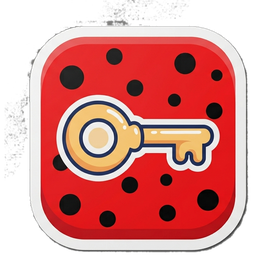
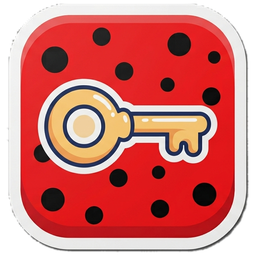
v0.1.28.34 — croix de fermeture, chiffres AZERTY, icône classeur
- Bouton Quitter : la maison devient une croix blanche (7 applis) —
  « fermer », le geste universel, plus parlant pour les enfants
  (retour du premier test d'Isabella)
- La chasse : les chiffres s'attrapent par la POSITION de la touche
  (rangée du haut + pavé numérique) — sur AZERTY physique, la rangée
  des chiffres envoyait & é " ' ( … et aucun chiffre n'était attrapable
- Icône « Mon classeur » (bulle de parole, livrée coccinelle) ;
  icônes ballons et espace re-détourées (moutures grises ôtées)
- README : crédits — pensé par Freddy, codé par Claude (Anthropic),
  dessiné par Gemini (Google)

diff --git a/README.md b/README.md
@@ -85,4 +85,6 @@ synthèse : déposer des fichiers audio dans le dossier utilisateur
 ---
 
 *CoccOs — un projet libre de Freddy Maillard. Fait avec Godot Engine.*
+*Pensé par Freddy, codé par Claude (Anthropic), dessiné par Gemini (Google) —*
+*chaque part revient à son créateur.*
 *Aucune publicité, aucun traqueur, aucune donnée collectée. 🐞*